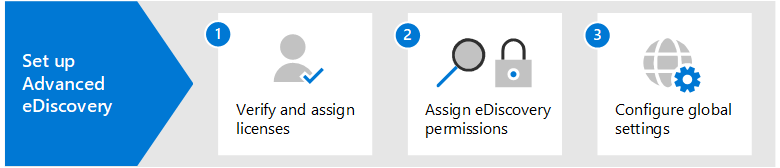
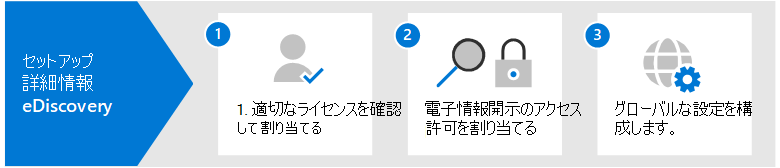
commit translated contents

diff --git a/microsoft-365/compliance/ome-version-comparison.md b/microsoft-365/compliance/ome-version-comparison.md
@@ -17,12 +17,12 @@ search.appverid:
 - MET150
 description: この記事では、365 メッセージ暗号化の異なるバージョンOffice説明します。
 ms.custom: seo-marvel-apr2020
-ms.openlocfilehash: e75a709be6141c4bd1df4e63df677dd263c0777a
-ms.sourcegitcommit: 27b2b2e5c41934b918cac2c171556c45e36661bf
+ms.openlocfilehash: 5c8b0852220b2144c4ab92ec9b692299c9d2c860
+ms.sourcegitcommit: c75aac39ee8d93218a79585113ef6b36f47c9ddf
 ms.translationtype: MT
 ms.contentlocale: ja-JP
-ms.lasthandoff: 03/19/2021
-ms.locfileid: "50927735"
+ms.lasthandoff: 03/29/2021
+ms.locfileid: "51408570"
 ---
 # <a name="compare-versions-of-ome"></a>OME のバージョンを比較する
 
@@ -35,23 +35,11 @@ ms.locfileid: "50927735"
 
 ## <a name="overview-of-ad-rms-deprecation-in-exchange-online"></a>Exchange Online AD RMS 非推奨の概要
 
-Exchange Online には、電子メール メッセージと添付ファイルのオンラインおよびオフライン保護を提供する Information Rights Management (IRM) 機能が含まれています。 既定では、Exchange Online は Azure Azure Information Protection を使用します。 ただし、組織は、オンプレミスの Active Directory Rights Management Service (RMS) を使用するように Exchange Online IRM を構成ADがあります。 ADの RMS サポートは終了しています。 代わりに、Azure Information Protection は RMS のAD置き換える必要があります。
+Exchange Online には、電子メール メッセージと添付ファイルのオンラインおよびオフライン保護を提供する Information Rights Management (IRM) 機能が含まれています。 既定では、Exchange Online は Azure Information Protection を使用します。 ただし、組織は、オンプレミスの Active Directory Rights Management Service (RMS) を使用するように Exchange Online IRM を構成ADがあります。 ADの RMS サポートは終了しています。 代わりに、Azure Information Protection は RMS のAD置き換える必要があります。
 
-開始する前に、組織の影響を確認して評価します。 組織が既に Azure Information Protection を使用して Exchange Online で電子メールを暗号化している場合は、何も行う必要があります。 Exchange メール フロー ルールを使用して電子メールを暗号化する場合 (たとえば、Office 365 Message Encryption を使用する場合)、セキュリティで保護された電子メールを変更する必要が生じしません。 それ以外の場合は、Azure Information Protection に切り替AD RMS の廃止に備える必要があります。
+この廃止が組織に影響を与えるかどうかを評価するには、「Exchange Online で RMS AD AZURE RMS に移行する方法」 [を参照してください](https://support.microsoft.com/help/5001237)。 この記事では、移行オプションに関する推奨事項について説明します。
 
-### <a name="prepare-for-ad-rms-deprecation"></a>RMS の非推奨AD準備する
-
-Azure Information Protection を既にセットアップ済みで、使用していない場合は、Exchange Online PowerShell を使用してサービスを有効にしてください。 ローカル コンピューターで、組織内のグローバル管理者アクセス許可を持つ仕事または学校のアカウントを使用して、別のウィンドウで [Exchange Online PowerShell](/powershell/exchange/connect-to-exchange-online-powershell) にWindows PowerShellします。
-
-Azure Information Protection を有効にするには、次のコマンドを入力Set-IrmConfigurationコマンドレットを使用します。
-
-```powershell
-Set-IrmConfiguration -AzureRMSLicensingEnabled $true
-```
-
-組織が Azure Information Protection をまだセットアップしていない場合は、RMS から Azure Information Protection に移行AD必要があります。 手順については、「RMS から Azure Information Protection への [移行AD」を参照してください](/azure/information-protection/migrate-from-ad-rms-to-azure-rms)。
-
-## <a name="side-by-side-comparison-of-features-and-capabilities"></a>機能と機能を並べて比較する
+## <a name="side-by-side-comparison-of-ome-features-and-capabilities"></a>OME 機能のサイド バイ サイド比較
 
 |           **状況**           | **レガシー OME**    | **RMS の IRM AD RM**        | **新しい OME 機能** |
 |-----------------------------------|-------------------|-------------------|--------------------------|

diff --git a/microsoft-365/compliance/ome-faq.md b/microsoft-365/compliance/ome-faq.md
@@ -15,12 +15,12 @@ search.appverid:
 ms.assetid: 0432dce9-d9b6-4e73-8a13-4a932eb0081e
 description: 新しいメッセージ保護機能がどのように機能するかについて質問がありますか? ここで答えを確認してください。
 ms.custom: seo-marvel-apr2020
-ms.openlocfilehash: 2ad0ef4f16e5b458da80227b93fab574e3ce8dde
-ms.sourcegitcommit: 94fa3e57fa6505551d84ae7b458150dceff30db7
+ms.openlocfilehash: 589a28690d1654576ace45edd482b8d67161d616
+ms.sourcegitcommit: c75aac39ee8d93218a79585113ef6b36f47c9ddf
 ms.translationtype: MT
 ms.contentlocale: ja-JP
-ms.lasthandoff: 03/26/2021
-ms.locfileid: "51394685"
+ms.lasthandoff: 03/29/2021
+ms.locfileid: "51408592"
 ---
 # <a name="message-encryption-faq"></a>メッセージの暗号化に関する FAQ
 
@@ -118,7 +118,7 @@ Word、Excel、PowerPoint ファイルなどのファイル形式がサポート
   
 ## <a name="are-pdf-file-attachments-supported"></a>PDF ファイルの添付ファイルはサポートされていますか?
 
-短い答えははい! PDF 暗号化を使用すると、セキュリティで保護された通信または安全な共同作業を通じて、機密性の高い PDF ドキュメントを保護できます。 電子メールを送信すると、Office 365 サービスは Outlook クライアントではなく PDF ファイルの添付ファイルを暗号化します。
+短い答えははい! 有効にした場合、PDF 暗号化を使用すると、セキュリティで保護された通信または安全な共同作業を通じて、機密性の高い PDF ドキュメントを保護できます。 電子メールを送信すると、Office 365 サービスは PDF ファイルの添付ファイルを暗号化します。 Outlook クライアントは PDF ファイルの添付ファイルを暗号化しない。
 
 Outlook on the web、Outlook for iOS、および Outlook for Android の場合、送信する PDF はそれ以上の手順なしで暗号化できます。 これらのクライアントは、PDF 暗号化をネイティブにサポートします。
 

diff --git a/microsoft-365/compliance/double-key-encryption.md b/microsoft-365/compliance/double-key-encryption.md
@@ -12,12 +12,12 @@ ms.reviewer: esaggese
 localization_priority: Normal
 ms.collection:
 - M365-security-compliance
-ms.openlocfilehash: 10b29220e49dcb5fda8b1f7d18e52e10513fc599
-ms.sourcegitcommit: 30c3054004ddc9d6059c11d55577552aa2464810
+ms.openlocfilehash: 746f1345b47694f4a4122edc5d89cc924441ea81
+ms.sourcegitcommit: c75aac39ee8d93218a79585113ef6b36f47c9ddf
 ms.translationtype: MT
 ms.contentlocale: ja-JP
-ms.lasthandoff: 03/20/2021
-ms.locfileid: "50939658"
+ms.lasthandoff: 03/29/2021
+ms.locfileid: "51408178"
 ---
 # <a name="double-key-encryption-for-microsoft-365"></a>Microsoft 365 のダブル キー暗号化
 
@@ -242,6 +242,8 @@ DKE テナントとキー設定は、ファイルのappsettings.js **に表示**
      "https://sts.windows.net/9c99431e-b513-44be-a7d9-e7b500002d4b/"
    ]
    ```
+> [!NOTE]
+> キー ストアへの外部 B2B アクセスを有効にする場合は、有効な発行者のリストの一部としてこれらの外部テナントも含める必要があります。
 
 を探します `JwtAudience` 。 `<yourhostname>`DKE サービスが実行されるコンピューターのホスト名に置き換える。 次に例を示します。
 
